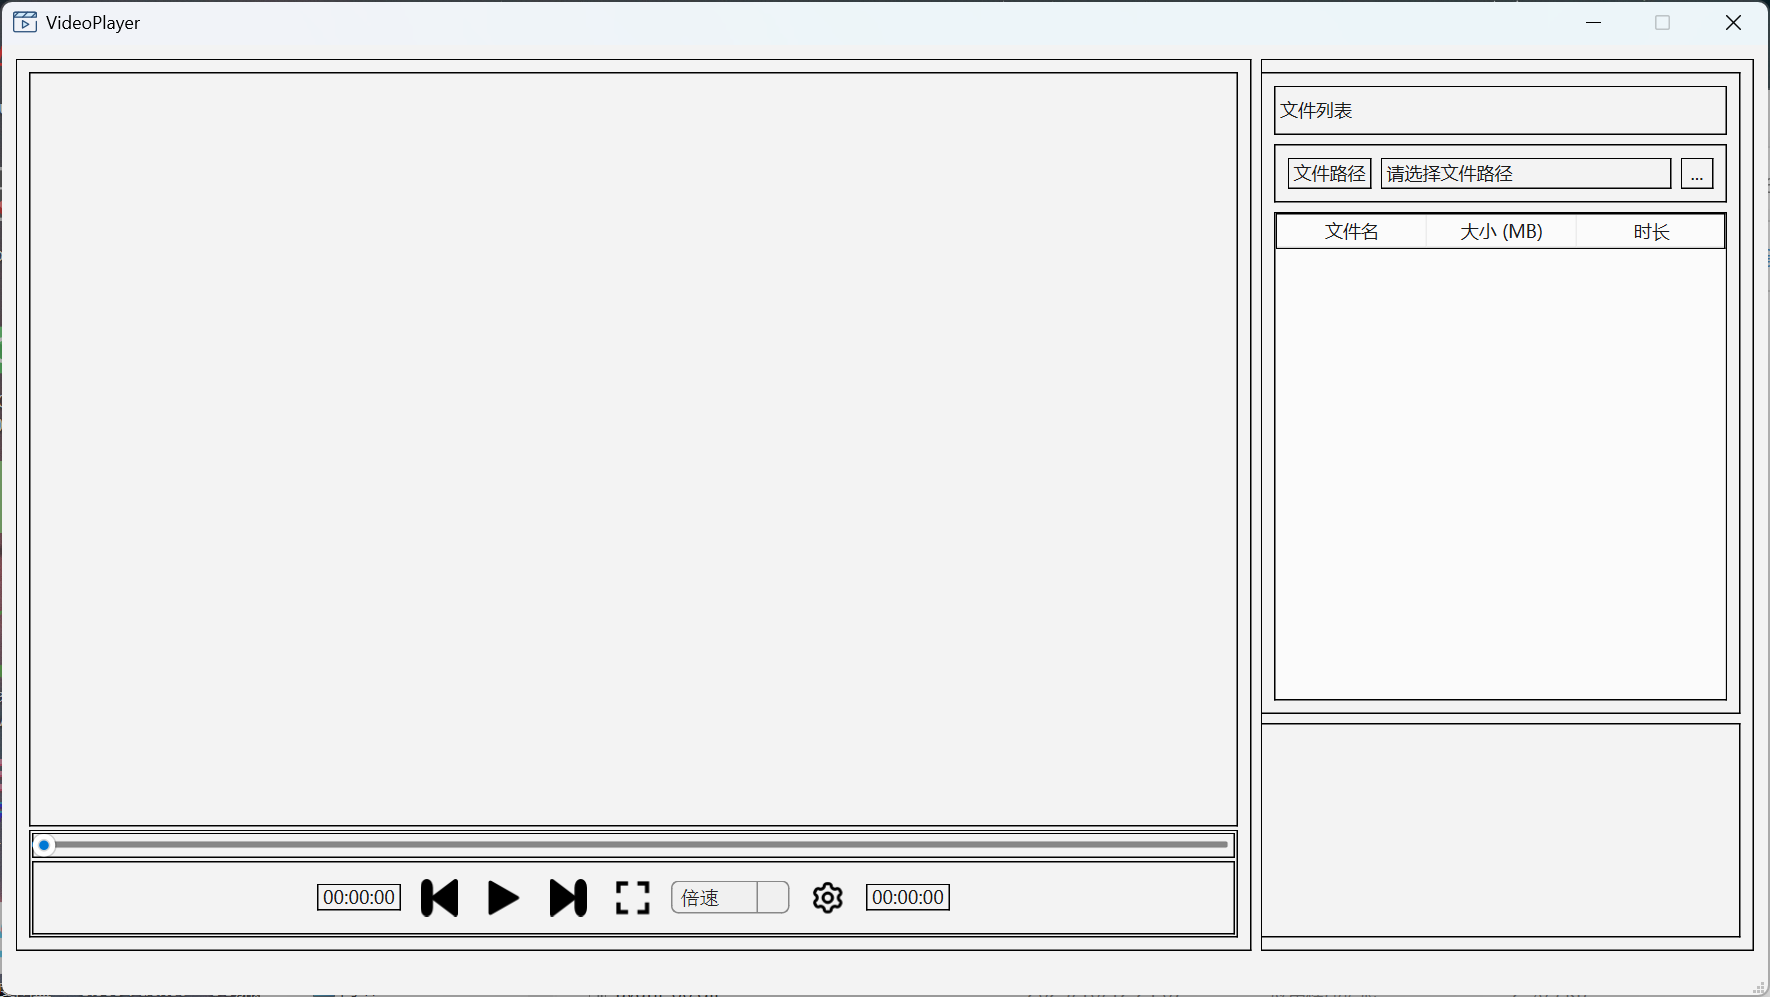
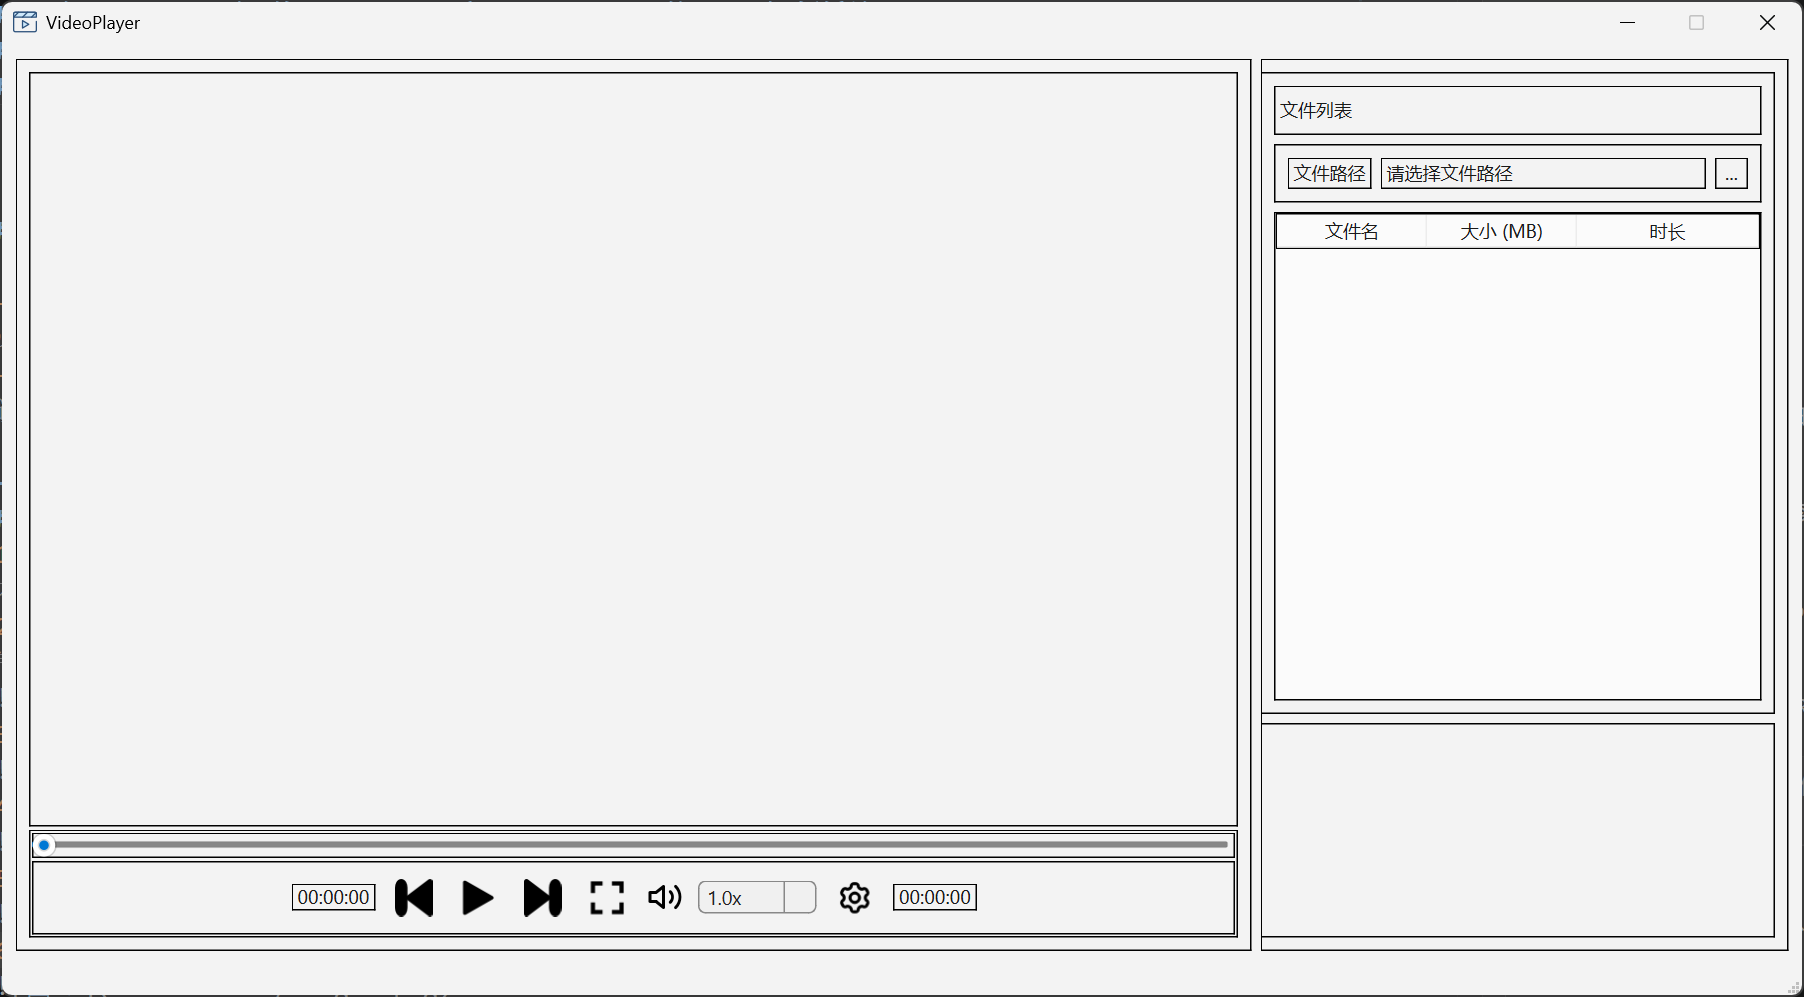
说明更新

diff --git a/README.md b/README.md
@@ -5,6 +5,9 @@
 - [一个 Windows平台 基于QT 6.7.0 和 FFmpeg 8.0 的 C++ 视频播放器](#一个-windows平台-基于qt-670-和-ffmpeg-80-的-c-视频播放器)
   - [目录](#目录)
   - [功能实现](#功能实现)
+  - [v2.1.0 更新内容](#v210-更新内容)
+    - [新增功能](#新增功能)
+    - [优化](#优化)
   - [v2.0.0 使用教程](#v200-使用教程)
   - [快捷键一图流](#快捷键一图流)
   - [补充说明](#补充说明)
@@ -21,10 +24,33 @@
 | 全屏模式 | 点击按钮或使用快捷键 | 回车键可切换显示状态，全屏模式下Esc键可以退出 |
 | 倍速播放 | 在倍速按钮中选择合适的播放速度 | 不建议倍速选择太大，倍速越大对CPU负载越高 |
 | 缩放质量自定义 | 在设置中可以调节采用的缩放算法 | 视个人计算机性能合理选择，画面质量越高，CPU负载越高，详见设置页面 |
+| 音量控制        | 通过音量按钮调节播放音量      | 支持 0～100 范围调节，静音时图标自动切换                      |
+| 配置持久化      | 退出后自动保存当前所有设置    | 包含音量、速度、缩放算法、上次打开的文件夹、播放位置记忆      |
+| 重置设置        | 在设置面板中一键恢复默认配置  | 重置前弹出确认框，重置时若正在播放会安全停止后清空            |
+
+---
+## v2.1.0 更新内容
+ 
+### 新增功能
+ 
+**音量控制与持久化**
+- 新增音量调节按钮，支持 0～100% 范围调节
+- 音量状态随其他配置一起持久化，重启后自动恢复上次设置值
+- 拖动音量滑块时采用防抖机制（500ms 延迟写盘），避免频繁触发 I/O
+**设置页面**
+- 支持按下 `ESC` 快速关闭设置窗口
+- 新增一键重置功能，可将所有设置恢复为默认值
+  - 重置前弹出二次确认对话框，防止误操作
+  - 若当前正在播放，重置时会先安全停止播放、退出全屏，再清空文件列表和路径，最后同步所有 UI 控件到默认状态
+  - 重置完成后自动关闭设置窗口
+### 优化
+ 
+- **配置写入防抖**：音量、速度、缩放算法等高频操作改为延迟 500ms 写盘，退出时统一兜底保存，避免不必要的磁盘 I/O
+- **重置安全性**：重置操作遵循"退出全屏 → 停止播放 → 清画面缓存 → 清 UI → 清数据 → 写盘 → 恢复默认值"的顺序，保证不会访问已释放的资源
 
 ---
 ## v2.0.0 使用教程
-1. 在此项目主页的 [Releases](https://github.com/Liucxiong/Player/releases) 页面找到最新发布版本压缩包并下载到本地。
+1. 在此项目主页的 [Releases](https://github.com/Liucxiong/Player/releases) 页面找到最新发布版本压缩包并下载到本地。(或者直接使用`.exe`后缀的安装包直接安装)
 2. 将压缩包解压后打开，找到名为 **Player.exe** 的可执行文件，双击运行(可以为该文件创建快捷方式，复制到桌面方便使用)。
 ![图 1](Readme_Info/image0.png)
 3. 这是主界面
@@ -35,7 +61,7 @@
 ![图 4](Readme_Info/image3.png)
 6. 双击右侧列表中的任意视频文件即可播放视频
 ![图 5](Readme_Info/image4.png)
-7. **卸载**：关闭程序后，直接将整个软件文件夹删除即可
+7. **卸载**：关闭程序后，直接将整个软件文件夹删除即可。(使用安装包安装则可在控制面板直接卸载程序)
 
 
 ---
@@ -48,3 +74,4 @@
 - 当切换显示模式时可能会出现，全屏显示模式下图像大小不变的可能，此时需要点击播放视频，将在下一帧自动调整到合适大小
 - 当视频播放至末尾时，播放状态按钮仍然可以切换状态，此为正常现象，为了保证在播放到末尾时可以回退到之前的内容，避免开销
 - 对于部分视频连续不断的快进10秒可能会快进失败，稍等1秒左右即可恢复正常
+- 配置文件 `config.json` 保存在可执行文件所在目录，删除该文件即可手动重置所有配置
